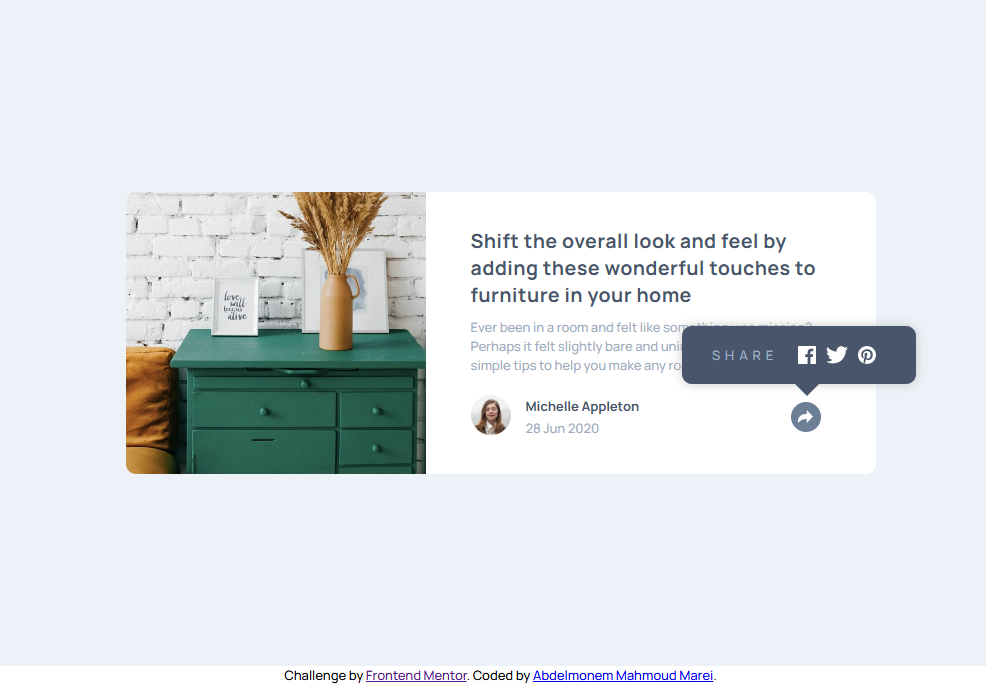
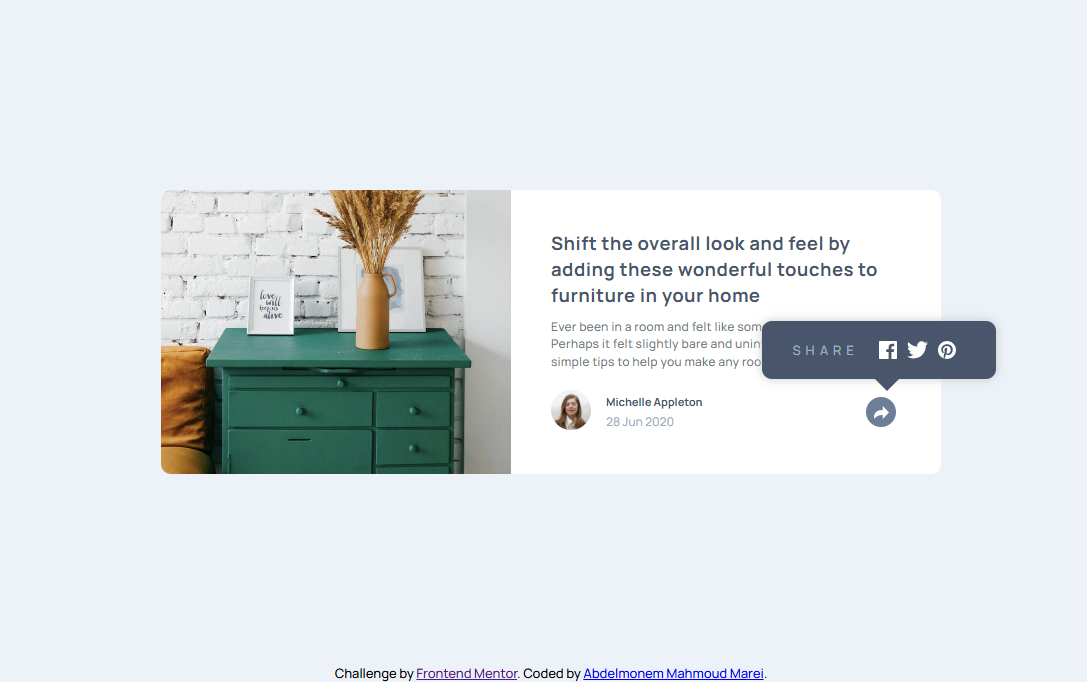
Update Files
Update index and main.css files and add new screenshots to live site preview

diff --git a/Newbie/article-preview-component-master/css/main.css b/Newbie/article-preview-component-master/css/main.css
@@ -27,7 +27,7 @@ body{
 }
 .article-container{
     display: flex;
-    width: 750px;
+    width: fit-content;
     flex-direction: row;
     position: relative;
     background-color: white;
@@ -38,7 +38,7 @@ body{
     -o-border-radius: 10px;
 }
 .article-container .image {
-    width: 40%;
+    width: 350px;
     background-image: url(../images/drawers.jpg);
     background-size: cover;
     border-top-left-radius: 10px;
@@ -46,19 +46,21 @@ body{
 }
 
 .article-container .article-content{
-    padding: 35px 0 35px 45px
+    padding: 40px
 }
 .article-container .article-content h2{
     color: var(--Very-Dark-Grayish-Blue);
     letter-spacing: 0.5px;
     max-width: 350px;
+    font-size: 1.15rem;
 }
 .article-container .article-content >p{
-    color: var(--Grayish-Blue);
-    font-size: 1em;
+    color: hsl(212deg 8.11% 48.21%);
+    font-size: 0.75rem;
     margin-top: 10px;
     line-height: 1.45;
     max-width: 350px;
+    letter-spacing: 0.25px;
 }
 .article-container .profile{
     display: flex;
@@ -67,9 +69,7 @@ body{
     align-items: center;
     margin-top: 20px;
 }
-/* .article-container .profile .avatar-image{
-    width: 50px;
-} */
+
 .article-container .profile .avatar-image img{
     width: 40px;
     border-radius: 50%;
@@ -82,13 +82,13 @@ body{
     margin-left: 15px;
 }
 .article-container .profile .description p:first-child{
-    font-size: 1em;
+    font-size: 0.85em;
     font-weight: 700;
     color: var(--Very-Dark-Grayish-Blue);
     margin-bottom: 4px;
 }
 .article-container .profile .description p:last-child{
-    font-size: 1em;
+    font-size: 0.75rem;
     font-weight: 500;
     color: var(--Grayish-Blue);
 }
@@ -105,7 +105,7 @@ body{
     -moz-border-radius: 50%;
     -ms-border-radius: 50%;
     -o-border-radius: 50%;
-    right: 0px;
+    right: 5px;
     z-index: 2;
     cursor: pointer;
 }
@@ -165,7 +165,6 @@ body{
         width: 350px;
     }
     .article-container .image {
-        width: 100%;
         height: 230px;
         background-image: url(../images/drawers.jpg);
         background-size: cover;
@@ -177,13 +176,13 @@ body{
         padding: 30px;
     }
     .article-container .article-content h2{
-        font-size: 1.35em;
-        max-width: 300px;
+        font-size: 1rem;
+        max-width: 280px;
         line-height: 1.45;
     }
     .article-container .article-content >p{
-        font-size: 1.05em;
-        max-width: 270px;
+        font-size: 0.85rem;
+        max-width: 280px;
     }.article-container .profile .share-box{
         width: 100%;
         height: 100%;
@@ -202,7 +201,6 @@ body{
         display: none;
     }
     .article-container .profile .share-icon{
-        right: 0px;
         top: 50%;
         transform: translateY(-25%);
         -webkit-transform: translateY(-25%);

diff --git a/Newbie/article-preview-component-master/index.html b/Newbie/article-preview-component-master/index.html
@@ -48,7 +48,7 @@
       </div>
     </div>
   </div>
-  <div style="text-align: center;" class="attribution">
+  <div style="text-align: center;background-color: hsl(210, 46%, 95%);" class="attribution">
     Challenge by <a href="https://www.frontendmentor.io/challenges/article-preview-component-dYBN_pYFT" target="_blank">Frontend Mentor</a>.
     Coded by <a href="#">Abdelmonem Mahmoud Marei</a>.
   </div>
